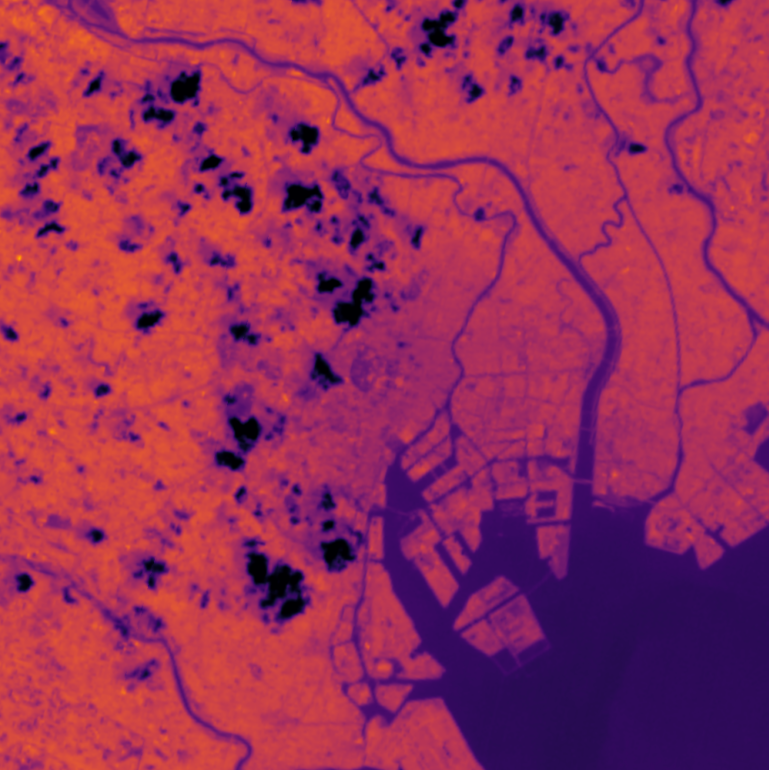
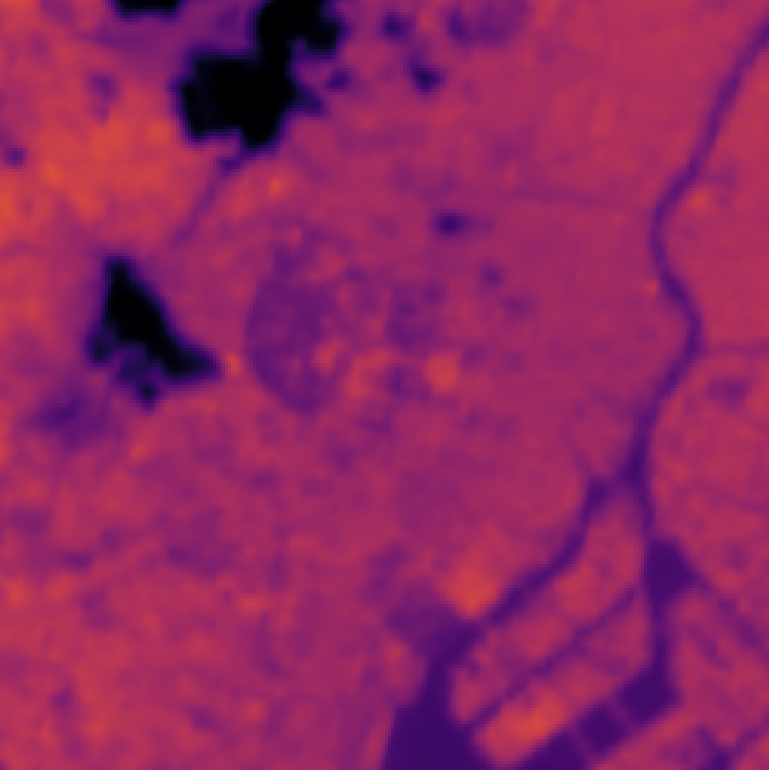
Add README.md

diff --git a/ImageRadianceConvert/thermalconverter.py b/ImageRadianceConvert/thermalconverter.py
@@ -6,7 +6,7 @@ import time
 import matplotlib.pyplot as plt
 
 start_time = time.time()
-thermal_image_path = "E:\- Programming\Python FastAPI, React projects\Thermal-data-viewer\ImageRadianceConvert\LC08_L1TP_107035_20150806_20200908_02_T1_B10.TIF"
+thermal_image_path = "C:\\Users\\samuk\\Documents\\Ohjelmointi\\Web\\Thermal-data-viewer\\ImageRadianceConvert\\LC08_L1TP_107035_20150806_20200908_02_T1_B10.TIF"
 
 # --- SÄÄDÄ NÄITÄ ARVOJA VAPAASTI ---
 WINDOW_WIDTH = 250 

diff --git a/README.md b/README.md
@@ -1,0 +1,102 @@
+# Thermal data viewer
+The purpose of this project is to visualize thermal data based on satellite images. This is a learning project to understand how we can use real data and display it on a front-end map. 
+
+This project uses technologies like:
+- React, Typescript.
+- FastAPI, Python.
+- Data handling libraries, like numpy, matplotlib and rasterio with Python.
+
+## How to use
+
+### Fetching satellite data from EarthExplorer
+
+The first step is to download data from [USGS EarthExplorer](https://earthexplorer.usgs.gov/). There is also a sample image called LC08_L1TP_107035_20150806_20200908_02_T1_B10.tif, which you can use to test the application out. If you don't want to download a new satellite image set, you can [skip to the next step](#converting-the-image-for-usage).
+
+You need to make a new account to the site. To search for an specific area, the easy way would be to use area tool to select an area with a polygon or a circle. Just select the points you want, and press the "Data Sets" to search for data for that area.
+
+
+![Data search](Images/search.png)
+
+
+> Note: The satellite image might not be exactly in the exact area but it shows the approximate area.
+
+From the data set selection screen, do the following steps:
+1. Select the Landsat tab.
+2. Select Landsat Collection 2 Level-1. 
+3. Select Landsat 8-9 OLI/TIRS C2 L1.
+
+Press the "Results" button from the bottom. 
+
+![Landsat data structure](Images/landsatdatastructure.png)
+
+You will now see previews of satellite imagery. Find a preview, that contains little amount of clouds and you can see the ground from the image. The image rarely perfect, so it can contain some clouds. Here is an example of an usable image.
+
+![EarthExplorer satellite data preview](Images/datapreview.png)
+
+To download the image, press the button next to it with the little green arrow pointing downwards to a hard disk to see download options. Click the "Product Options" tab and you will see a listing **Download the whole bundle!** The file size should be between 500 megabytes to 2 gigabytes.
+
+![Image of data download options](Images/downloadoptions.png)
+
+After extracting, you see a bunch of files with different bands but for this project (currently) we are using the Band 10. **The file name should end in _T1_B10.tif**
+
+> Note: The image is in black and white before converting, so don't panic.
+
+### Converting the image for usage
+
+#### Optional: Create and Activate a Virtual Environment
+
+It is highly recommended to isolate your project dependencies using a virtual environment. Navigate to the root directory of the project and run:
+
+```bash
+python -m venv .venv
+```
+
+To activate the environment, run the appropriate command for your operating system:
+
+Windows (PowerShell):
+
+```powershell
+.venv\Scripts\Activate.ps1
+```
+
+Linux / macOS:
+
+
+```bash
+source .venv/bin/activate
+```
+
+#### Step 1: Dependencies
+If you have not installed the required packages, run:
+
+```bash
+pip install -r requirements.txt
+```
+
+#### Step 2: Configure the converter
+
+Open the thermalconverter.py file inside the ImageRadianceConvert/ folder. Set the thermal_image_path variable to point to the directory where you downloaded the Band 10 (_B10.tif) file.
+
+### Step 3: Would be to run the converter
+
+Run the converter. Here you will notice that it won't probably work. 
+
+This is why:
+1. The converter is hard coded to work in a spesific coordinate in Tokio.
+2. The maps need to be converted in a specific way, so that they work correctly in the front-end application.
+3. The idea is that the converter should work for all coordinates but it is currently development, **thus the pilot phase**
+
+Move the generated npy file to backend/data_thermal.
+
+## Starting the application
+
+Navigate to Application/backend/, where you will find a FastAPI application.
+
+Run this in a separate terminal using the command
+
+```bash
+uvicorn main:app --reload
+```
+
+
+